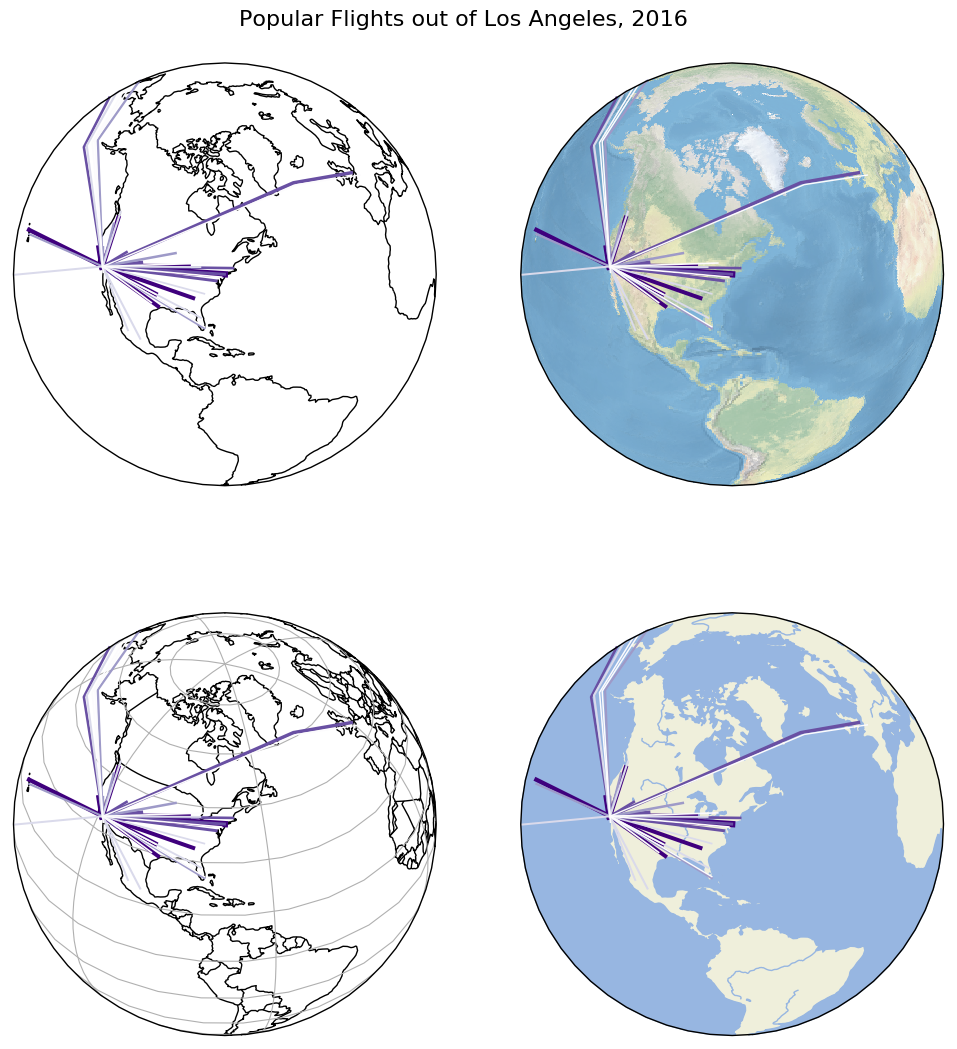
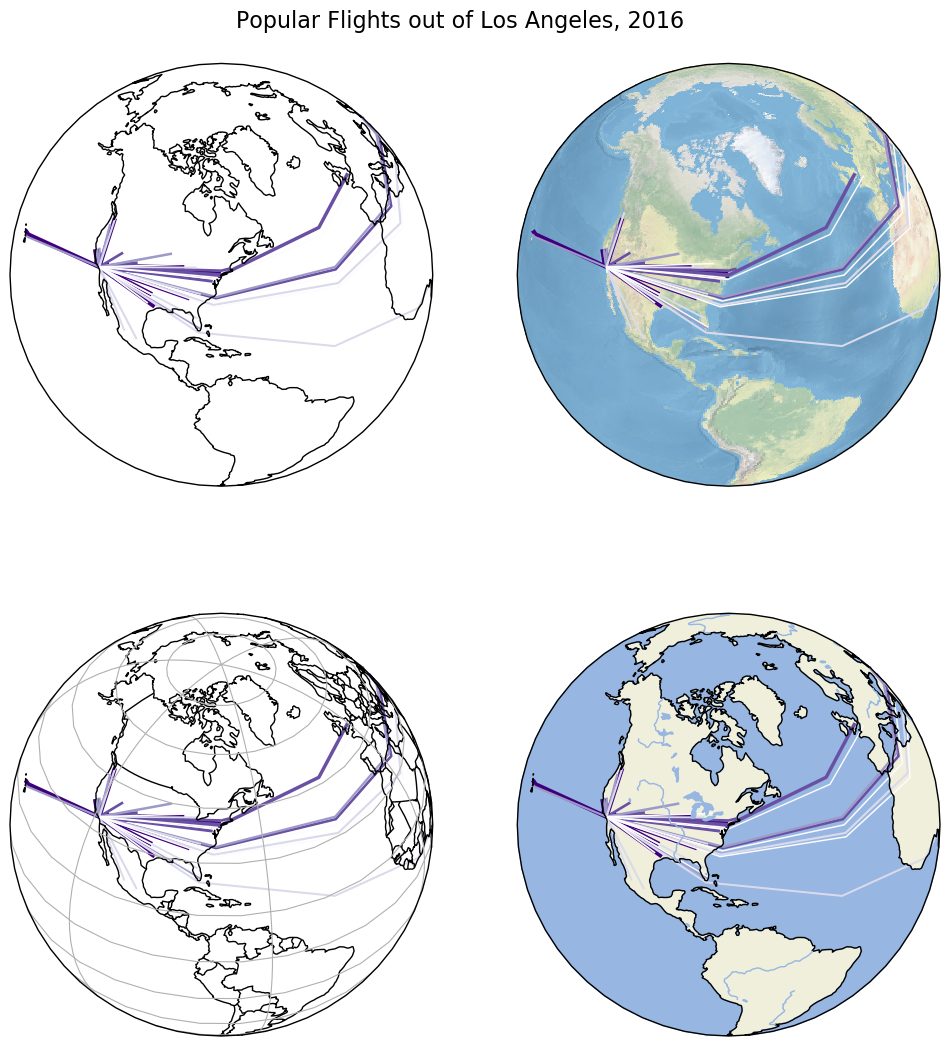
Update example images. (#130)

diff --git a/docs/examples/nyc-collisions-map.py b/docs/examples/nyc-collisions-map.py
@@ -14,29 +14,31 @@ proj = projection=gcrs.AlbersEqualArea(central_latitude=40.7128, central_longitu
 ax1 = plt.subplot(121, projection=proj)
 ax2 = plt.subplot(122, projection=proj)
 
-gplt.polyplot(nyc_boroughs, ax=ax1, projection=proj)
-gplt.pointplot(
-    nyc_fatal_collisions,
+ax1 = gplt.pointplot(
+    nyc_fatal_collisions, projection=proj,
     hue='BOROUGH', cmap='Set1',
     edgecolor='white', linewidth=0.5,
-    scale='NUMBER OF PERSONS KILLED', limits=(2, 8),
-    legend=True, legend_var='scale', legend_kwargs={'loc': 'upper left'},
+    scale='NUMBER OF PERSONS KILLED', limits=(8, 24),
+    legend=True, legend_var='scale',
+    legend_kwargs={'loc': 'upper left', 'markeredgecolor': 'black'},
     legend_values=[2, 1], legend_labels=['2 Fatalities', '1 Fatality'],
     ax=ax1
 )
+gplt.polyplot(nyc_boroughs, ax=ax1)
 ax1.set_title("Fatal Crashes in New York City, 2016")
 
-gplt.polyplot(nyc_boroughs, ax=ax2, projection=proj)
 gplt.pointplot(
-    nyc_injurious_collisions,
+    nyc_injurious_collisions, projection=proj,
     hue='BOROUGH', cmap='Set1',
     edgecolor='white', linewidth=0.5,
-    scale='NUMBER OF PERSONS INJURED', limits=(1, 10),
-    legend=True, legend_var='scale', legend_kwargs={'loc': 'upper left'},
+    scale='NUMBER OF PERSONS INJURED', limits=(4, 20),
+    legend=True, legend_var='scale',
+    legend_kwargs={'loc': 'upper left', 'markeredgecolor': 'black'},
     legend_values=[20, 15, 10, 5, 1],
     legend_labels=['20 Injuries', '15 Injuries', '10 Injuries', '5 Injuries', '1 Injury'],
     ax=ax2
 )
+gplt.polyplot(nyc_boroughs, ax=ax2, projection=proj)
 ax2.set_title("Injurious Crashes in New York City, 2016")
 
 plt.savefig("nyc-collisions-map.png", bbox_inches='tight', pad_inches=0)

diff --git a/docs/examples/los-angeles-flights.py b/docs/examples/los-angeles-flights.py
@@ -9,10 +9,6 @@ import cartopy
 
 # load the data
 la_flights = gpd.read_file(gplt.datasets.get_path('la_flights'))
-la_flights = la_flights.assign(
-    start=la_flights.geometry.map(lambda mp: mp[0]),
-    end=la_flights.geometry.map(lambda mp: mp[1])
-)
 
 
 f, axarr = plt.subplots(2, 2, figsize=(12, 12), subplot_kw={
@@ -22,24 +18,21 @@ plt.suptitle('Popular Flights out of Los Angeles, 2016', fontsize=16)
 plt.subplots_adjust(top=0.95)
 
 ax = gplt.sankey(
-    la_flights, start='start', end='end', scale='Passengers', hue='Passengers', cmap='Purples', 
-    ax=axarr[0][0]
+    la_flights, scale='Passengers', hue='Passengers', cmap='Purples', ax=axarr[0][0]
 )
 ax.set_global()
 ax.outline_patch.set_visible(True)
 ax.coastlines()
 
 ax = gplt.sankey(
-    la_flights, start='start', end='end', scale='Passengers', hue='Passengers', cmap='Purples',
-    ax=axarr[0][1]
+    la_flights, scale='Passengers', hue='Passengers', cmap='Purples', ax=axarr[0][1]
 )
 ax.set_global()
 ax.outline_patch.set_visible(True)
 ax.stock_img()
 
 ax = gplt.sankey(
-    la_flights, start='start', end='end', scale='Passengers', hue='Passengers', cmap='Purples',
-    ax=axarr[1][0]
+    la_flights, scale='Passengers', hue='Passengers', cmap='Purples', ax=axarr[1][0]
 )
 ax.set_global()
 ax.outline_patch.set_visible(True)
@@ -48,8 +41,7 @@ ax.coastlines()
 ax.add_feature(cartopy.feature.BORDERS)
 
 ax = gplt.sankey(
-    la_flights, start='start', end='end', scale='Passengers', hue='Passengers', cmap='Purples',
-    ax=axarr[1][1]
+    la_flights, scale='Passengers', hue='Passengers', cmap='Purples', ax=axarr[1][1]
 )
 ax.set_global()
 ax.outline_patch.set_visible(True)

diff --git a/docs/examples/obesity.py b/docs/examples/obesity.py
@@ -9,7 +9,7 @@ import matplotlib.pyplot as plt
 # load the data
 obesity_by_state = pd.read_csv(gplt.datasets.get_path('obesity_by_state'), sep='\t')
 contiguous_usa = gpd.read_file(gplt.datasets.get_path('contiguous_usa'))
-contiguous_usa['Obesity Rate'] = contiguous_usa['State'].map(
+contiguous_usa['Obesity Rate'] = contiguous_usa['state'].map(
     lambda state: obesity_by_state.query("State == @state").iloc[0]['Percent']
 )
 
@@ -19,10 +19,11 @@ ax = gplt.cartogram(
     scale='Obesity Rate', limits=(0.75, 1),
     projection=gcrs.AlbersEqualArea(central_longitude=-98, central_latitude=39.5),
     hue='Obesity Rate', cmap='Reds', k=5,
-    linewidth=0.5, trace_kwargs={'linewidth': 0.5},
+    linewidth=0.5,
     legend=True, legend_kwargs={'loc': 'lower right'}, legend_var='hue',
     figsize=(12, 12)
 )
+gplt.polyplot(contiguous_usa, facecolor='gray', edgecolor='None', ax=ax)
 
 plt.title("Adult Obesity Rate by State, 2013")
 plt.savefig("obesity.png", bbox_inches='tight', pad_inches=0.1)

diff --git a/geoplot/geoplot.py b/geoplot/geoplot.py
@@ -349,13 +349,10 @@ class LegendMixin:
 
             markersizes = [self.dscale(d) * scale_multiplier for d in legend_values]
 
-            # If the user provides a markeredgecolor in legend_kwargs, use that. Otherwise,
-            # if they provide an edgecolor in kwargs, reuse that. Otherwise, default to a
-            # steelblue or black markeredgecolor, depending on whether hue is defined.
+            # If the user provides a markeredgecolor in legend_kwargs, use that. Otherwise, default
+            # to a steelblue or black markeredgecolor, depending on whether hue is defined.
             if 'markeredgecolor' in legend_marker_kwargs:
                 markeredgecolor = legend_marker_kwargs.pop('markeredgecolor')
-            elif 'edgecolor' in self.kwargs:
-                markeredgecolor = self.kwargs.get('edgecolor')
             elif self.hue is None:
                 markeredgecolor = 'steelblue'
             else:

diff --git a/docs/examples/nyc-collision-factors.py b/docs/examples/nyc-collision-factors.py
@@ -17,24 +17,26 @@ gplt.kdeplot(
     nyc_collision_factors[
         nyc_collision_factors['CONTRIBUTING FACTOR VEHICLE 1'] == "Failure to Yield Right-of-Way"
     ],
+    cmap='Reds',
     projection=proj,
     shade=True, shade_lowest=False, 
     clip=nyc_boroughs.geometry,
     ax=ax1
 )
-gplt.polyplot(nyc_boroughs, ax=ax1)
+gplt.polyplot(nyc_boroughs, zorder=1, ax=ax1)
 plt.title("Failure to Yield Right-of-Way Crashes, 2016")
 
 gplt.kdeplot(
     nyc_collision_factors[
         nyc_collision_factors['CONTRIBUTING FACTOR VEHICLE 1'] == "Lost Consciousness"
     ],
+    cmap = 'Reds',
     projection=proj,
     shade=True, shade_lowest=False,
     clip=nyc_boroughs.geometry,
     ax=ax2
 )
-gplt.polyplot(nyc_boroughs, ax=ax2)
+gplt.polyplot(nyc_boroughs, zorder=1, ax=ax2)
 plt.title("Loss of Consciousness Crashes, 2016")
 
 plt.savefig("nyc-collision-factors.png", bbox_inches='tight', pad_inches=0.1)

diff --git a/docs/examples/nyc-collisions-voronoi.py b/docs/examples/nyc-collisions-voronoi.py
@@ -1,5 +1,6 @@
 import geopandas as gpd
 import geoplot as gplt
+import geoplot.crs as gcrs
 import matplotlib.pyplot as plt
 
 # load the data
@@ -8,12 +9,15 @@ nyc_injurious_collisions = gpd.read_file(gplt.datasets.get_path('nyc_injurious_c
 
 # A plot type using Voronoi tessellation: https://en.wikipedia.org/wiki/Voronoi_diagram
 
-f, axarr = plt.subplots(1, 2, figsize=(16, 8))
+proj = gcrs.AlbersEqualArea(central_latitude=40.7128, central_longitude=-74.0059)
+f, axarr = plt.subplots(
+    1, 2, figsize=(16, 8), subplot_kw={'projection': proj}
+)
 axarr[0].axis('off')
 axarr[1].axis('off')
 gplt.voronoi(
     nyc_injurious_collisions.head(1000),
-    edgecolor='lightsteelblue', linewidth=0.5, ax=axarr[0]
+    edgecolor='lightsteelblue', linewidth=0.5, ax=axarr[0],
 )
 gplt.polyplot(nyc_boroughs, linewidth=0.5, ax=axarr[0])
 gplt.voronoi(

diff --git a/docs/examples/nyc-parking-tickets.py b/docs/examples/nyc-parking-tickets.py
@@ -8,7 +8,6 @@ import matplotlib.pyplot as plt
 
 # load the data
 nyc_boroughs = gpd.read_file(gplt.datasets.get_path('nyc_boroughs'))
-precincts = gpd.read_file(gplt.datasets.get_path('nyc_precincts'))
 tickets = gpd.read_file(gplt.datasets.get_path('nyc_parking_tickets'))
 
 proj = gcrs.AlbersEqualArea(central_latitude=40.7128, central_longitude=-74.0059)

diff --git a/docs/examples/dc-street-network.py b/docs/examples/dc-street-network.py
@@ -8,7 +8,7 @@ dc_roads = gpd.read_file(gplt.datasets.get_path('dc_roads'))
 
 gplt.sankey(
     dc_roads, projection=gcrs.AlbersEqualArea(),
-    scale='aadt', limits=(0.1, 10), edgecolor='black'
+    scale='aadt', limits=(0.1, 10), color='black'
 )
 
 plt.title("Streets in Washington DC by Average Daily Traffic, 2015")
